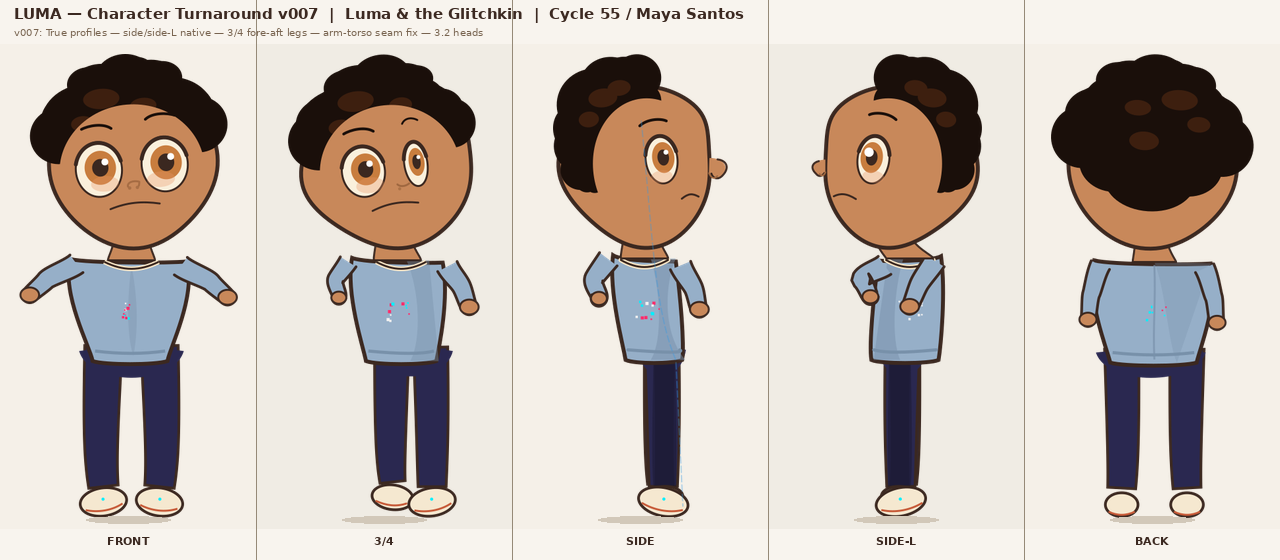
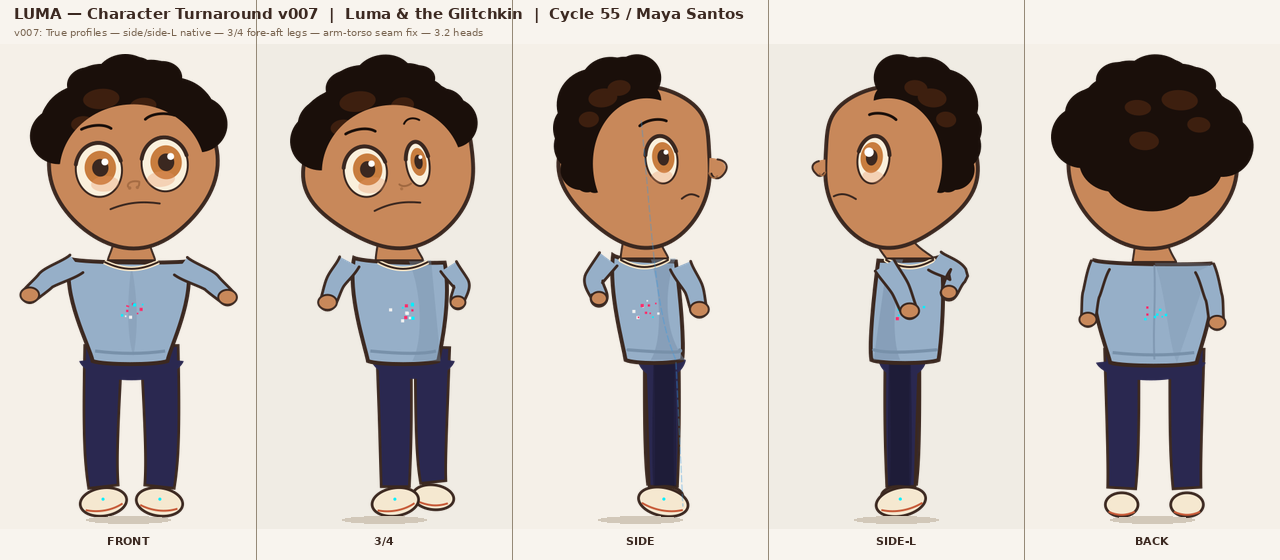
C62 Luma v1.5.0: fix hip seam, arm draw order (3q/side-L), 3q leg near/far labels
Bug 1 (all views): hip_bridge_y_top = torso_bot_y instead of torso_bot_y - torso_h*0.10.
Hoodie torso fill drawn on top naturally covers the seam — no gap-closing math needed.

Bug 2 (3q + side-L): arm draw order was reversed.
3/4 right-facing: ls_pt = character's LEFT = near arm; must draw rs_pt (far) first, ls_pt last.
Side-L: ls_pt = canvas-left = face-direction = character's RIGHT = near; rs_pt first, ls_pt last.
Arm geometry offsets mirrored to match corrected attachment points.

Bug 3 (3q only): near_leg_x/far_leg_x assignments were swapped.
fl_x (hip_cx - offset) = character's LEFT leg = near side in 3/4 right-facing view.
Fixed: near_leg_x = fl_x, far_leg_x = fr_x.

char_module_test: 7/7 Luma PASS. Turnaround + canonical test sheet regenerated.

diff --git a/output/tools/LTG_TOOL_char_luma.py b/output/tools/LTG_TOOL_char_luma.py
@@ -5,8 +5,8 @@
 # the copyright holder to assign the relevant rights to the contributing AI entity or entities
 # upon such time as they acquire recognised legal personhood under applicable law.
 """
-LTG_TOOL_char_luma.py — Canonical Luma Renderer Module v1.4.0
-"Luma & the Glitchkin" — Cycle 61 / Maya Santos
+LTG_TOOL_char_luma.py — Canonical Luma Renderer Module v1.5.0
+"Luma & the Glitchkin" — Cycle 62 / Maya Santos
 
 PURPOSE:
   Single canonical module for drawing Luma. All generators (expression sheets,
@@ -36,7 +36,7 @@ POSE MODES:
 Dependencies: pycairo, Pillow (for conversion utilities), math, random
 """
 
-__version__ = "1.4.0"
+__version__ = "1.5.0"
 __author__ = "Maya Santos"
 __cycle__ = 61
 
@@ -838,7 +838,8 @@ def _draw_luma_on_context(ctx, cx, ground_y, char_h, expression, spec, scale=1.0
                                PANTS, LINE_COL, lw_major)
 
     # Hip bridge: filled shape over the torso-leg junction (side view: narrow band)
-    hip_bridge_y_top = torso_bot_y - torso_h * 0.10  # aligned with hem_y — no gap
+    # Top reaches torso_bot_y — hoodie torso fill (drawn after) covers the seam naturally.
+    hip_bridge_y_top = torso_bot_y
     hip_bridge_y_bot = torso_bot_y + leg_w_top * 1.2
     hip_bw = leg_w_top * 1.4  # legs centered, so width from leg_w_top only
     hip_bridge_cx = cx  # match leg anchor (cx, not hip_cx)
@@ -1346,8 +1347,9 @@ def _draw_luma_front(ctx, cx, ground_y, char_h, expression, spec, scale=1.0):
                                    PANTS, LINE_COL, lw_major)
 
     # Hip bridge
+    # Top reaches torso_bot_y — hoodie torso fill (drawn after) covers the seam naturally.
     hip_bw = leg_offset + leg_w_top * 1.3
-    hip_bridge_y_top = torso_bot_y - torso_h * 0.10  # aligned with hem_y — no gap
+    hip_bridge_y_top = torso_bot_y
     hip_bridge_y_bot = torso_bot_y + leg_w_top * 1.2
     ctx.new_path()
     ctx.move_to(hip_cx - hip_bw, hip_bridge_y_top)
@@ -1745,10 +1747,10 @@ def _draw_luma_threequarter(ctx, cx, ground_y, char_h, expression, spec, scale=1
     # Near leg (right = fr_x) slightly to the near/right side; far leg (left = fl_x) to the far side.
     # Spread is ~62% of front view offset (front uses head_r * 0.40).
     leg_offset_3q = head_r * 0.40 * 0.62 * stance_mult
-    fl_x = hip_cx - leg_offset_3q  # far leg (character's left, receding)
-    fr_x = hip_cx + leg_offset_3q  # near leg (character's right, forward)
-    far_leg_x  = fl_x
-    near_leg_x = fr_x
+    fl_x = hip_cx - leg_offset_3q  # near leg — character's LEFT faces viewer in 3/4 right-facing
+    fr_x = hip_cx + leg_offset_3q  # far leg — character's RIGHT recedes
+    near_leg_x = fl_x  # LEFT = near
+    far_leg_x  = fr_x  # RIGHT = far
     # Y offset: near foot at normal ground, far foot slightly raised (depth recession)
     far_extra_lift = head_r * 0.06  # far foot slightly higher = receding
 
@@ -1773,9 +1775,10 @@ def _draw_luma_threequarter(ctx, cx, ground_y, char_h, expression, spec, scale=1
                                PANTS, LINE_COL, lw_major)
 
     # Hip bridge: spans between spread legs
+    # Top reaches torso_bot_y — hoodie torso fill (drawn after) covers the seam naturally.
     hip_bw = leg_offset_3q + leg_w_top * 1.3  # match front-view pattern
     hip_bridge_cx = hip_cx
-    hip_bridge_y_top = torso_bot_y - torso_h * 0.10  # aligned with hem_y — no gap
+    hip_bridge_y_top = torso_bot_y
     hip_bridge_y_bot = torso_bot_y + leg_w_top * 1.2
     ctx.new_path()
     ctx.move_to(hip_bridge_cx - hip_bw, hip_bridge_y_top)
@@ -1871,40 +1874,38 @@ def _draw_luma_threequarter(ctx, cx, ground_y, char_h, expression, spec, scale=1
 
     # ══ ARMS (3/4 — inline for correct height; near arm prominent, far arm partially hidden) ══
     # Arms drawn inline (not via _draw_arms dispatch which is tuned for front view).
-    # In 3/4 view, arms hang down naturally with hands at hip/waist height.
-    # Near arm (rs_pt = right/near shoulder): hangs relaxed with slight forward bend.
-    # Far arm (ls_pt = left/far shoulder): partially behind body, bent back.
-    # Draw order: far arm FIRST (behind body), near arm LAST (in front).
-    # 3/4 right: left arm is far, right arm is near.
+    # In 3/4 right-facing: viewer is front-left of character. Character's LEFT side faces viewer.
+    # Near arm = character's LEFT = ls_pt (canvas left). Far arm = character's RIGHT = rs_pt (canvas right).
+    # Draw order: far arm (rs_pt) FIRST (behind body), near arm (ls_pt) LAST (in front).
     arm_w_top = head_r * 0.14
     arm_w_bot = head_r * 0.10
     hand_r_s = head_r * 0.12
 
-    # Far arm (ls_pt side, partially behind body) — draw first (behind)
-    fa_shoulder = (ls_pt[0] - 5*s, ls_pt[1] + 5*s)
-    fa_elbow    = (fa_shoulder[0] - 16*s, fa_shoulder[1] + 22*s)
-    fa_hand     = (fa_elbow[0] + 4*s,    fa_elbow[1]    + 24*s)
+    # Far arm (rs_pt side, character's RIGHT, partially behind body) — draw first (behind)
+    fa_shoulder = (rs_pt[0] + 5*s, rs_pt[1] + 5*s)
+    fa_elbow    = (fa_shoulder[0] + 16*s, fa_shoulder[1] + 22*s)
+    fa_hand     = (fa_elbow[0] - 4*s,    fa_elbow[1]    + 24*s)
     far_arm_pts = (_bezier_points(fa_shoulder,
-                                  (fa_shoulder[0] - 5*s, fa_shoulder[1] + 8*s),
-                                  (fa_elbow[0] + 4*s, fa_elbow[1] - 6*s), fa_elbow, steps=25) +
+                                  (fa_shoulder[0] + 5*s, fa_shoulder[1] + 8*s),
+                                  (fa_elbow[0] - 4*s, fa_elbow[1] - 6*s), fa_elbow, steps=25) +
                    _bezier_points(fa_elbow,
-                                  (fa_elbow[0] - 3*s, fa_elbow[1] + 7*s),
-                                  (fa_hand[0] + 3*s, fa_hand[1] - 4*s), fa_hand, steps=25)[1:])
+                                  (fa_elbow[0] + 3*s, fa_elbow[1] + 7*s),
+                                  (fa_hand[0] - 3*s, fa_hand[1] - 4*s), fa_hand, steps=25)[1:])
     _draw_unified_arm(ctx, far_arm_pts, arm_w_top * 0.85, arm_w_bot * 0.85, hoodie, LINE_COL, lw_major)
     _draw_ellipse_path(ctx, fa_hand[0], fa_hand[1], hand_r_s * 0.80, hand_r_s * 0.65)
     _set_color(ctx, SKIN); ctx.fill_preserve()
     _set_color(ctx, LINE_COL); ctx.set_line_width(lw_minor); ctx.stroke()
 
-    # Near arm (rs_pt side, prominent) — draw last (in front)
-    na_shoulder = (rs_pt[0] + 6*s, rs_pt[1] + 5*s)
-    na_elbow    = (na_shoulder[0] + 18*s, na_shoulder[1] + 26*s)
-    na_hand     = (na_elbow[0] + 10*s,   na_elbow[1]    + 26*s)
+    # Near arm (ls_pt side, character's LEFT, prominent) — draw last (in front)
+    na_shoulder = (ls_pt[0] - 6*s, ls_pt[1] + 5*s)
+    na_elbow    = (na_shoulder[0] - 18*s, na_shoulder[1] + 26*s)
+    na_hand     = (na_elbow[0] - 10*s,   na_elbow[1]    + 26*s)
     near_arm_pts = (_bezier_points(na_shoulder,
-                                   (na_shoulder[0] + 5*s, na_shoulder[1] + 10*s),
-                                   (na_elbow[0] - 4*s, na_elbow[1] - 8*s), na_elbow, steps=25) +
+                                   (na_shoulder[0] - 5*s, na_shoulder[1] + 10*s),
+                                   (na_elbow[0] + 4*s, na_elbow[1] - 8*s), na_elbow, steps=25) +
                     _bezier_points(na_elbow,
-                                   (na_elbow[0] + 4*s, na_elbow[1] + 8*s),
-                                   (na_hand[0] - 3*s, na_hand[1] - 4*s), na_hand, steps=25)[1:])
+                                   (na_elbow[0] - 4*s, na_elbow[1] + 8*s),
+                                   (na_hand[0] + 3*s, na_hand[1] - 4*s), na_hand, steps=25)[1:])
     _draw_unified_arm(ctx, near_arm_pts, arm_w_top, arm_w_bot, hoodie, LINE_COL, lw_major)
     _draw_ellipse_path(ctx, na_hand[0], na_hand[1], hand_r_s, hand_r_s * 0.80)
     _set_color(ctx, SKIN); ctx.fill_preserve()
@@ -2204,8 +2205,9 @@ def _draw_luma_back(ctx, cx, ground_y, char_h, expression, spec, scale=1.0):
                                    PANTS, LINE_COL, lw_major)
 
     # Hip bridge
+    # Top reaches torso_bot_y — hoodie torso fill (drawn after) covers the seam naturally.
     hip_bw = leg_offset + leg_w_top * 1.3
-    hip_bridge_y_top = torso_bot_y - torso_h * 0.10  # aligned with hem_y — no gap
+    hip_bridge_y_top = torso_bot_y
     hip_bridge_y_bot = torso_bot_y + leg_w_top * 1.2
     ctx.new_path()
     ctx.move_to(cx - hip_bw, hip_bridge_y_top)
@@ -2510,7 +2512,8 @@ def _draw_luma_side_l(ctx, cx, ground_y, char_h, expression, spec, scale=1.0):
                                PANTS, LINE_COL, lw_major)
 
     # Hip bridge
-    hip_bridge_y_top = torso_bot_y - torso_h * 0.10  # aligned with hem_y — no gap
+    # Top reaches torso_bot_y — hoodie torso fill (drawn after) covers the seam naturally.
+    hip_bridge_y_top = torso_bot_y
     hip_bridge_y_bot = torso_bot_y + leg_w_top * 1.2
     hip_bw = leg_w_top * 1.4  # legs centered, so width from leg_w_top only
     hip_bridge_cx = cx  # match leg anchor (cx, not hip_cx)
@@ -2629,35 +2632,35 @@ def _draw_luma_side_l(ctx, cx, ground_y, char_h, expression, spec, scale=1.0):
         _set_color(ctx, pc); ctx.fill()
 
     # ══ ARMS (side-L — distinct from side-R: relaxed near arm + bent far arm) ══
-    # Draw order: far arm FIRST (behind body), near arm LAST (in front).
-    # Side-L: right arm is far (behind), left arm is near (forward, toward viewer).
-    # NOTE: In side-L, near arm attaches at rs_pt (right shoulder from torso perspective)
-    # but it's the LEFT arm in character space (facing left = left side is near viewer).
+    # Side-L (facing left): viewer sees from the character's right side.
+    # Near arm = character's RIGHT = ls_pt (canvas left = face-direction side in left-facing).
+    # Far arm = character's LEFT = rs_pt (canvas right = back of character in left-facing).
+    # Draw order: far arm (rs_pt) FIRST (behind body), near arm (ls_pt) LAST (in front).
     arm_w_top = head_r * 0.14
     arm_w_bot = head_r * 0.10
     hand_r_s = head_r * 0.12
 
-    # Far arm (ls_pt): bent backward/up — draw first (behind body)
-    fa_shoulder = (ls_pt[0] + 8*s, ls_pt[1] + 6*s)
-    fa_elbow = (fa_shoulder[0] - 30*s, fa_shoulder[1] + 18*s)
-    fa_hand = (fa_elbow[0] + 12*s, fa_elbow[1] + 22*s)
-    far_arm_pts = (_bezier_points(fa_shoulder, (fa_shoulder[0] - 8*s, fa_shoulder[1] + 6*s),
-                                 (fa_elbow[0] + 4*s, fa_elbow[1] - 8*s), fa_elbow, steps=25) +
-                   _bezier_points(fa_elbow, (fa_elbow[0] + 6*s, fa_elbow[1] + 6*s),
-                                 (fa_hand[0] - 3*s, fa_hand[1] - 4*s), fa_hand, steps=25)[1:])
+    # Far arm (rs_pt = character's left, behind body) — draw first (behind)
+    fa_shoulder = (rs_pt[0] - 8*s, rs_pt[1] + 6*s)
+    fa_elbow = (fa_shoulder[0] + 30*s, fa_shoulder[1] + 18*s)
+    fa_hand = (fa_elbow[0] - 12*s, fa_elbow[1] + 22*s)
+    far_arm_pts = (_bezier_points(fa_shoulder, (fa_shoulder[0] + 8*s, fa_shoulder[1] + 6*s),
+                                 (fa_elbow[0] - 4*s, fa_elbow[1] - 8*s), fa_elbow, steps=25) +
+                   _bezier_points(fa_elbow, (fa_elbow[0] - 6*s, fa_elbow[1] + 6*s),
+                                 (fa_hand[0] + 3*s, fa_hand[1] - 4*s), fa_hand, steps=25)[1:])
     _draw_unified_arm(ctx, far_arm_pts, arm_w_top, arm_w_bot, hoodie, LINE_COL, lw_major)
     _draw_ellipse_path(ctx, fa_hand[0], fa_hand[1], hand_r_s * 0.85, hand_r_s * 0.7)
     _set_color(ctx, SKIN); ctx.fill_preserve()
     _set_color(ctx, LINE_COL); ctx.set_line_width(lw_minor); ctx.stroke()
 
-    # Near arm (rs_pt in this view = left arm facing viewer): relaxed down — draw last (in front)
-    na_shoulder = (rs_pt[0] - 8*s, rs_pt[1] + 6*s)
-    na_elbow = (na_shoulder[0] - 20*s, na_shoulder[1] + 30*s)
-    na_hand = (na_elbow[0] - 12*s, na_elbow[1] + 28*s)
-    near_arm_pts = (_bezier_points(na_shoulder, (na_shoulder[0] - 6*s, na_shoulder[1] + 10*s),
-                                  (na_elbow[0] + 4*s, na_elbow[1] - 8*s), na_elbow, steps=25) +
-                    _bezier_points(na_elbow, (na_elbow[0] - 4*s, na_elbow[1] + 8*s),
-                                  (na_hand[0] + 3*s, na_hand[1] - 4*s), na_hand, steps=25)[1:])
+    # Near arm (ls_pt = character's right, facing viewer): relaxed down — draw last (in front)
+    na_shoulder = (ls_pt[0] + 8*s, ls_pt[1] + 6*s)
+    na_elbow = (na_shoulder[0] + 20*s, na_shoulder[1] + 30*s)
+    na_hand = (na_elbow[0] + 12*s, na_elbow[1] + 28*s)
+    near_arm_pts = (_bezier_points(na_shoulder, (na_shoulder[0] + 6*s, na_shoulder[1] + 10*s),
+                                  (na_elbow[0] - 4*s, na_elbow[1] - 8*s), na_elbow, steps=25) +
+                    _bezier_points(na_elbow, (na_elbow[0] + 4*s, na_elbow[1] + 8*s),
+                                  (na_hand[0] - 3*s, na_hand[1] - 4*s), na_hand, steps=25)[1:])
     _draw_unified_arm(ctx, near_arm_pts, arm_w_top, arm_w_bot, hoodie, LINE_COL, lw_major)
     _draw_ellipse_path(ctx, na_hand[0], na_hand[1], hand_r_s, hand_r_s * 0.8)
     _set_color(ctx, SKIN); ctx.fill_preserve()

diff --git a/members/maya_santos/MEMORY.md b/members/maya_santos/MEMORY.md
@@ -1,63 +1,52 @@
 # Maya Santos — Memory
 
-## Cycle 61 — Human feedback head/body polish — COMPLETE
+## Cycle 62 — Three structural bugs fixed — COMPLETE
 
-### 6 fixes from inbox (all archived):
+### 3 fixes from inbox (archived):
 
-**Fix 1 — Shoulders too broad**
-- Reduced sh_w in ALL views: front 0.95→0.75, 3q 0.70→0.58, side/side_l 0.50→0.40, back 0.90→0.75
-- w_bot front 0.62→0.50
-- Affects arm attachment (arms still hang from shoulder edge — checked visually)
+**Bug 1 — Pants/torso mismatch**
+- Root cause: `hip_bridge_y_top = torso_bot_y - torso_h * 0.10` was trying to align
+  with hem_y via math, creating an unreliable seam.
+- Fix: Changed `hip_bridge_y_top = torso_bot_y` in ALL 5 views (side, front, 3q, back, side_l).
+  Hoodie torso fill (drawn after hip bridge) now naturally covers the junction. No gap math needed.
 
-**Fix 2 — Hair sharp edges at ear area**
-- Side/side_l: replaced (-0.85,0.02,0.30,0.32) and (-0.60,0.08,0.35,0.30) blobs with
-  smaller progressively-tapering blobs near ear zone (0.22→0.16→0.12 radii)
-- Gradual taper prevents hard cut at face-skin edge
+**Bug 2 — Arm draw order: 3/4 and side-L wrong**
+- 3/4 view (right-facing): character's LEFT side faces viewer. `ls_pt` = near arm.
+  Was: far=ls_pt first, near=rs_pt last (WRONG). Fixed: far=rs_pt first, near=ls_pt last.
+  Arm geometry offsets mirrored to match new attachment points (+x for far, -x for near).
+- Side-L (left-facing): character's RIGHT arm is near viewer (canvas-left side = face direction).
+  Was: far=ls_pt first, near=rs_pt last (WRONG). Fixed: far=rs_pt first, near=ls_pt last.
+  Arm geometry offsets mirrored accordingly.
+- Side-R: ALREADY CORRECT — no change.
 
-**Fix 3 — Neck-face transition too abrupt**
-- Extended face skin overdraw ry in all views:
-  - side/side_l: ry 0.80→0.88, cy 0.08→0.10
-  - front: ry 0.70→0.85 (with cy=0.10)
-  - 3/4: ry 0.70→0.85 (with cy=0.10)
-- Bottom of face skin now reaches neck_top_y at +0.95*head_r, covering the seam
+**Bug 3 — 3/4 near/far leg labels reversed**
+- Was: `fl_x = hip_cx - leg_offset_3q` labeled "far", `fr_x` labeled "near" — WRONG.
+- Fix: `fl_x` (canvas-left, character's LEFT) = near; `fr_x` (canvas-right) = far.
+  `near_leg_x = fl_x`, `far_leg_x = fr_x`.
+  Draw order: far leg (fr_x) first, near leg (fl_x) last — unchanged variable references,
+  just assignments corrected.
 
-**Fix 4 — Forehead/face shape wrong in 3/4 and side**
-- Side-R head loop: added brow ridge protrusion `cos(angle - (-pi/6))^12 * 0.06 * head_r`
-- Side-L head loop: added brow ridge protrusion `cos(angle - (pi+pi/6))^12 * 0.06 * head_r`
-- 3/4 head loop: added far-side brow bump `cos(angle - (-pi/5))^10 * 0.04 * head_r`
-- Gives heads proper forward-leaning forehead silhouette in profile/3q views
-
-**Fix 5 — Nose looks stuck on**
-- Side-R/side-L: changed from fill_preserve+stroke_full_path to:
-  1. fill() the full closed nose shape (skin color, no seam)
-  2. new_path stroke ONLY the outer free arc (start/end shifted inward from face edge)
-- This removes the outline where nose meets face, making it read as growing from face
-
-**Fix 6 — Eyebrows hidden in hair**
-- Draw order was already correct (hair → face skin → eyes → brows)
-- Extended face skin ry (fix 3) ensures brow positions at ~-0.32*head_r are well within face skin
-- Brow y positions unchanged — they are on the face skin area
-
-**Test:** char_module_test PASS (7/7 Luma). Turnaround regenerated.
-**Version:** LTG_TOOL_char_luma.py v1.4.0
+**Test:** char_module_test PASS (7/7 Luma). Turnaround + canonical test regenerated.
+**Version:** LTG_TOOL_char_luma.py v1.5.0
 
 **Deliverables:**
-- `LTG_TOOL_char_luma.py` v1.4.0 (in-place)
-- `output/characters/main/turnarounds/LTG_CHAR_luma_turnaround.png` (1280x560) — regenerated
-- `output/tools/LTG_TOOL_luma_canonical_test.py` v1.0.0 — NEW: 7-expr front-view test sheet
-- `output/characters/main/LTG_CHAR_luma_canonical_test.png` (1160x888) — regenerated
+- `output/tools/LTG_TOOL_char_luma.py` v1.5.0 (in-place)
+- `output/characters/main/turnarounds/LTG_CHAR_luma_turnaround.png` — regenerated
+- `output/characters/main/LTG_CHAR_luma_canonical_test.png` — regenerated
+
+## Cycle 61 — Human feedback head/body polish — COMPLETE
+
+6 fixes: shoulders, hair ear taper, neck-face blend, brow ridge, nose free-edge, eyebrow draw order.
+v1.4.0
 
 ## Cycle 60 — Arm draw order + pants/torso join — COMPLETE
-- Arm draw order fixed (far arm first) in all 3 profile/3q views
-- hip_bridge_y_top aligned to hem_y in all 5 views
-- v1.3.0
+v1.3.0
 
 ## Ongoing Notes
 - Cosmo module test is FAIL (pre-existing, noted for Alex Chen)
-- All 7 inbox messages from C61 archived after acting on them
 
 ## Tools Owned (active)
-- LTG_TOOL_char_luma.py v1.4.0 (C61 head polish, shoulder fix, nose, hair ear)
+- LTG_TOOL_char_luma.py v1.5.0 (C62 hip seam + arm order + 3q leg fix)
 - LTG_TOOL_char_miri.py v1.0.0 (C53)
 - LTG_TOOL_luma_turnaround.py v007 (C55)
 - (full list in SKILLS.md)

diff --git a/members/maya_santos/SKILLS.md b/members/maya_santos/SKILLS.md
@@ -7,7 +7,7 @@
 ## Tools Owned (active)
 | Tool | File | Ver |
 |---|---|---|
-| Luma canonical renderer | `LTG_TOOL_char_luma.py` | v1.4.0 |
+| Luma canonical renderer | `LTG_TOOL_char_luma.py` | v1.5.0 |
 | Miri canonical renderer | `LTG_TOOL_char_miri.py` | v1.0.0 |
 | Luma canonical test sheet | `LTG_TOOL_luma_canonical_test.py` | v1.0.0 |
 | Luma turnaround | `LTG_TOOL_luma_turnaround.py` | v007 |
@@ -50,6 +50,14 @@
 - Confetti: HOT_MAG/UV_PURPLE only (never cyan/acid)
 - Right eye = destabilized bleed of left = corruption read
 - Shadow facets: use CORRUPT_AMB_SH (not UV_PURPLE) on dark backgrounds
+
+## Luma Arm Draw Order Per View (C62)
+- `ls_pt` = canvas-left shoulder attachment; `rs_pt` = canvas-right.
+- **Side-R (facing right):** back=ls_pt first, front=rs_pt last. Character's LEFT = near = rs_pt.
+- **Side-L (facing left):** back=rs_pt first, front=ls_pt last. Character's RIGHT = near = ls_pt.
+- **3/4 (facing right):** far=rs_pt first, near=ls_pt last. Character's LEFT = near = ls_pt.
+- **Hip seam (all views):** `hip_bridge_y_top = torso_bot_y` — hoodie fill covers seam. No gap math.
+- **3/4 legs:** `near_leg_x = fl_x (hip_cx - offset)` = character's LEFT = near in 3/4 right-facing.
 
 ## Luma Construction Rules (C54/C61)
 - **Body join**: Legs overlap torso: `fl_top = (x, torso_bot_y - leg_w_top * 0.8)`. Hip bridge ellipse fills junction (fill=PANTS). Unified arm: `_draw_unified_arm(ctx, upper + fore[1:], w_sh, w_wrist, fill, lw)` — `[1:]` avoids duplicate elbow. `shoulder_open=True` (default) strokes outer silhouette only.

diff --git a/output/tools/README.md b/output/tools/README.md
@@ -71,7 +71,7 @@ If a required tool does not exist in the open source ecosystem, build it in Pyth
 | `LTG_TOOL_char_byte.py` | Canonical Byte modular renderer (10 expressions, cairo, transparent ARGB surface) |
 | `LTG_TOOL_char_cosmo.py` | Canonical Cosmo modular renderer (7 expressions incl. OBSERVING, cairo, angular gesture spec, transparent ARGB surface) |
 | `LTG_TOOL_char_glitch.py` | Canonical Glitch modular renderer (9 expressions, cairo, transparent ARGB surface) |
-| `LTG_TOOL_char_luma.py` | Canonical Luma modular renderer v1.4.0 (7 expressions, cairo, pose_mode: side/front/threequarter/side_l/back, narrowed kid shoulders, nose free-edge stroke, brow-ridge forehead, hair ear taper, extended face-neck blend) |
+| `LTG_TOOL_char_luma.py` | Canonical Luma modular renderer v1.5.0 (7 expressions, cairo, pose_mode: side/front/threequarter/side_l/back, hoodie-overdraw hip seam, corrected 3q/side-L arm draw order, correct 3q near/far leg assignment) |
 | `LTG_TOOL_char_miri.py` | Canonical Grandma Miri modular renderer (6 expressions, cairo, transparent ARGB surface) |
 | `LTG_TOOL_char_module_test.py` | Modular character renderer integration test |
 
